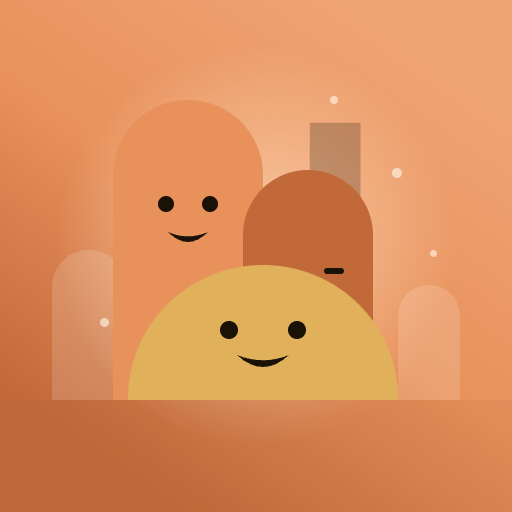
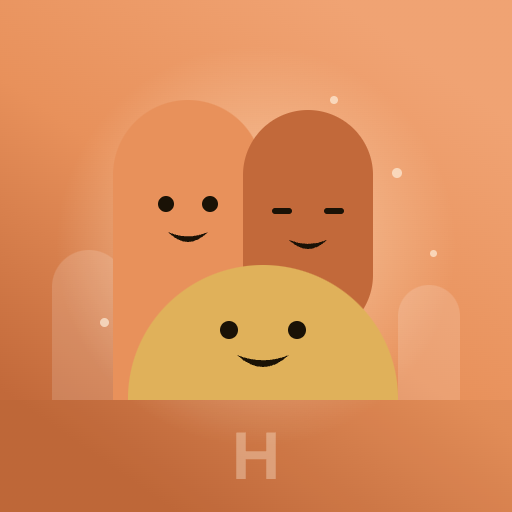
fix(pencil): аватарка — лицо «Таблетки» видно, вместо скрытой «Н» монограмма
Большая «Н» убрана: её закрывали персонажи, наружу торчала одна нога.
Взамен маленькая монограмма на земле — работает крупно, не мешает мелко.
«Таблетка» поднята на 110, её лицо больше не перекрыто куполом.

E1: бот @norms2_bot заведён; первый токен отозван — попал в переписку.

diff --git a/docs/impl-phase2-plan.md b/docs/impl-phase2-plan.md
@@ -2223,7 +2223,8 @@ _Заземлено на существующую доку: `domain-model §7`, 
 
 **Подготовка [Elmir]**
 
-- [ ] **E1** — завести бота через `@BotFather` (`/newbot`), положить `TELEGRAM_BOT_TOKEN` в `.env` (dev и прод).
+- [ ] **E1** — бот заведён 04.08.2026: **`@norms2_bot`**. Осталось положить `TELEGRAM_BOT_TOKEN` в `.env` (dev и прод).
+  - ⚠ **Первый токен отозван в тот же день:** он был отправлен в переписку с ассистентом и тем самым осел в истории чата. Перевыпуск — `/revoke` у `@BotFather`. Это ровно тот риск, из-за которого в шапке блока стоит «токен не называется в переписке»: утёкший токен даёт полный контроль над ботом, а бот умеет выдавать приглашения.
 - [x] **E2** ✅ 2026-08-04 — канал создан: **[t.me/norms2](https://t.me/norms2)**, то есть `TELEGRAM_CHANNEL_ID=@norms2`. От этого адреса зависят все ссылки «читать в канале» — в подвале релиз-нот (·14) и на публичной витрине (·4).
 - [ ] **E3** — добавить бота в канал **администратором** с правом публикации.
 - [ ] **E4** — прописать `TELEGRAM_CHANNEL_ID=@имя_канала` (на dev — **тестовый** канал) и `TELEGRAM_OWNER_CHAT_ID` (свой чат с ботом; узнаётся после первого `/start`).
